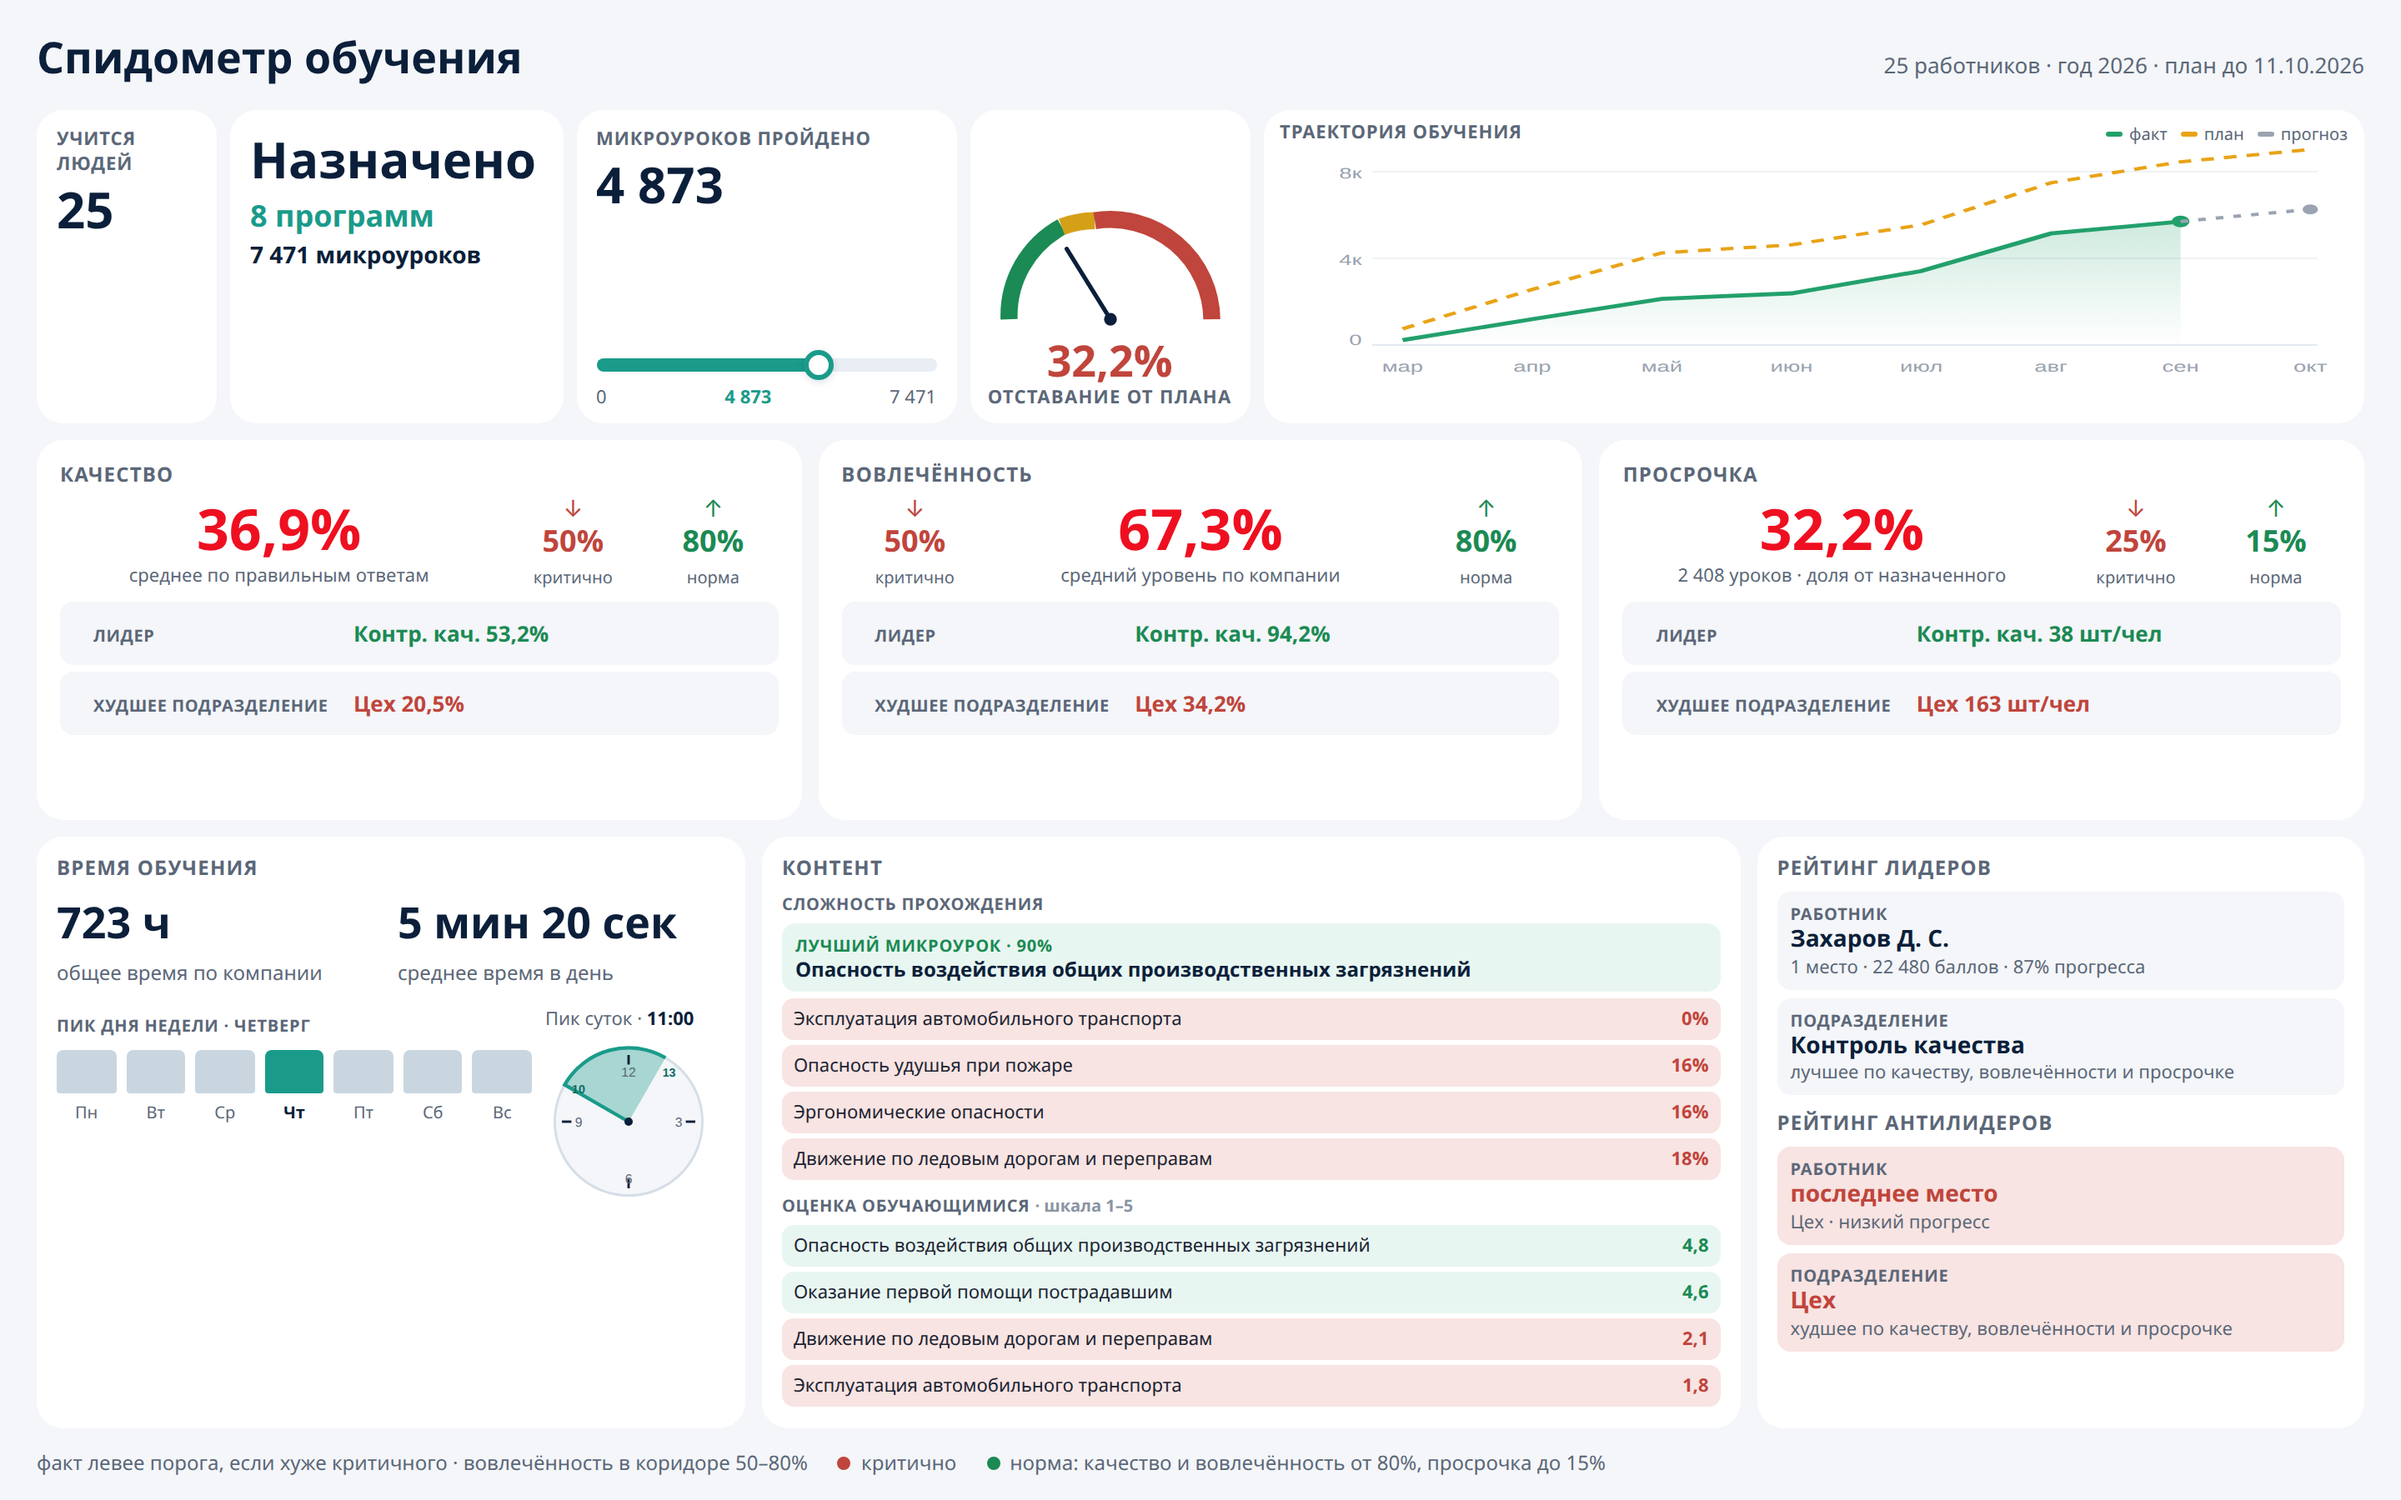
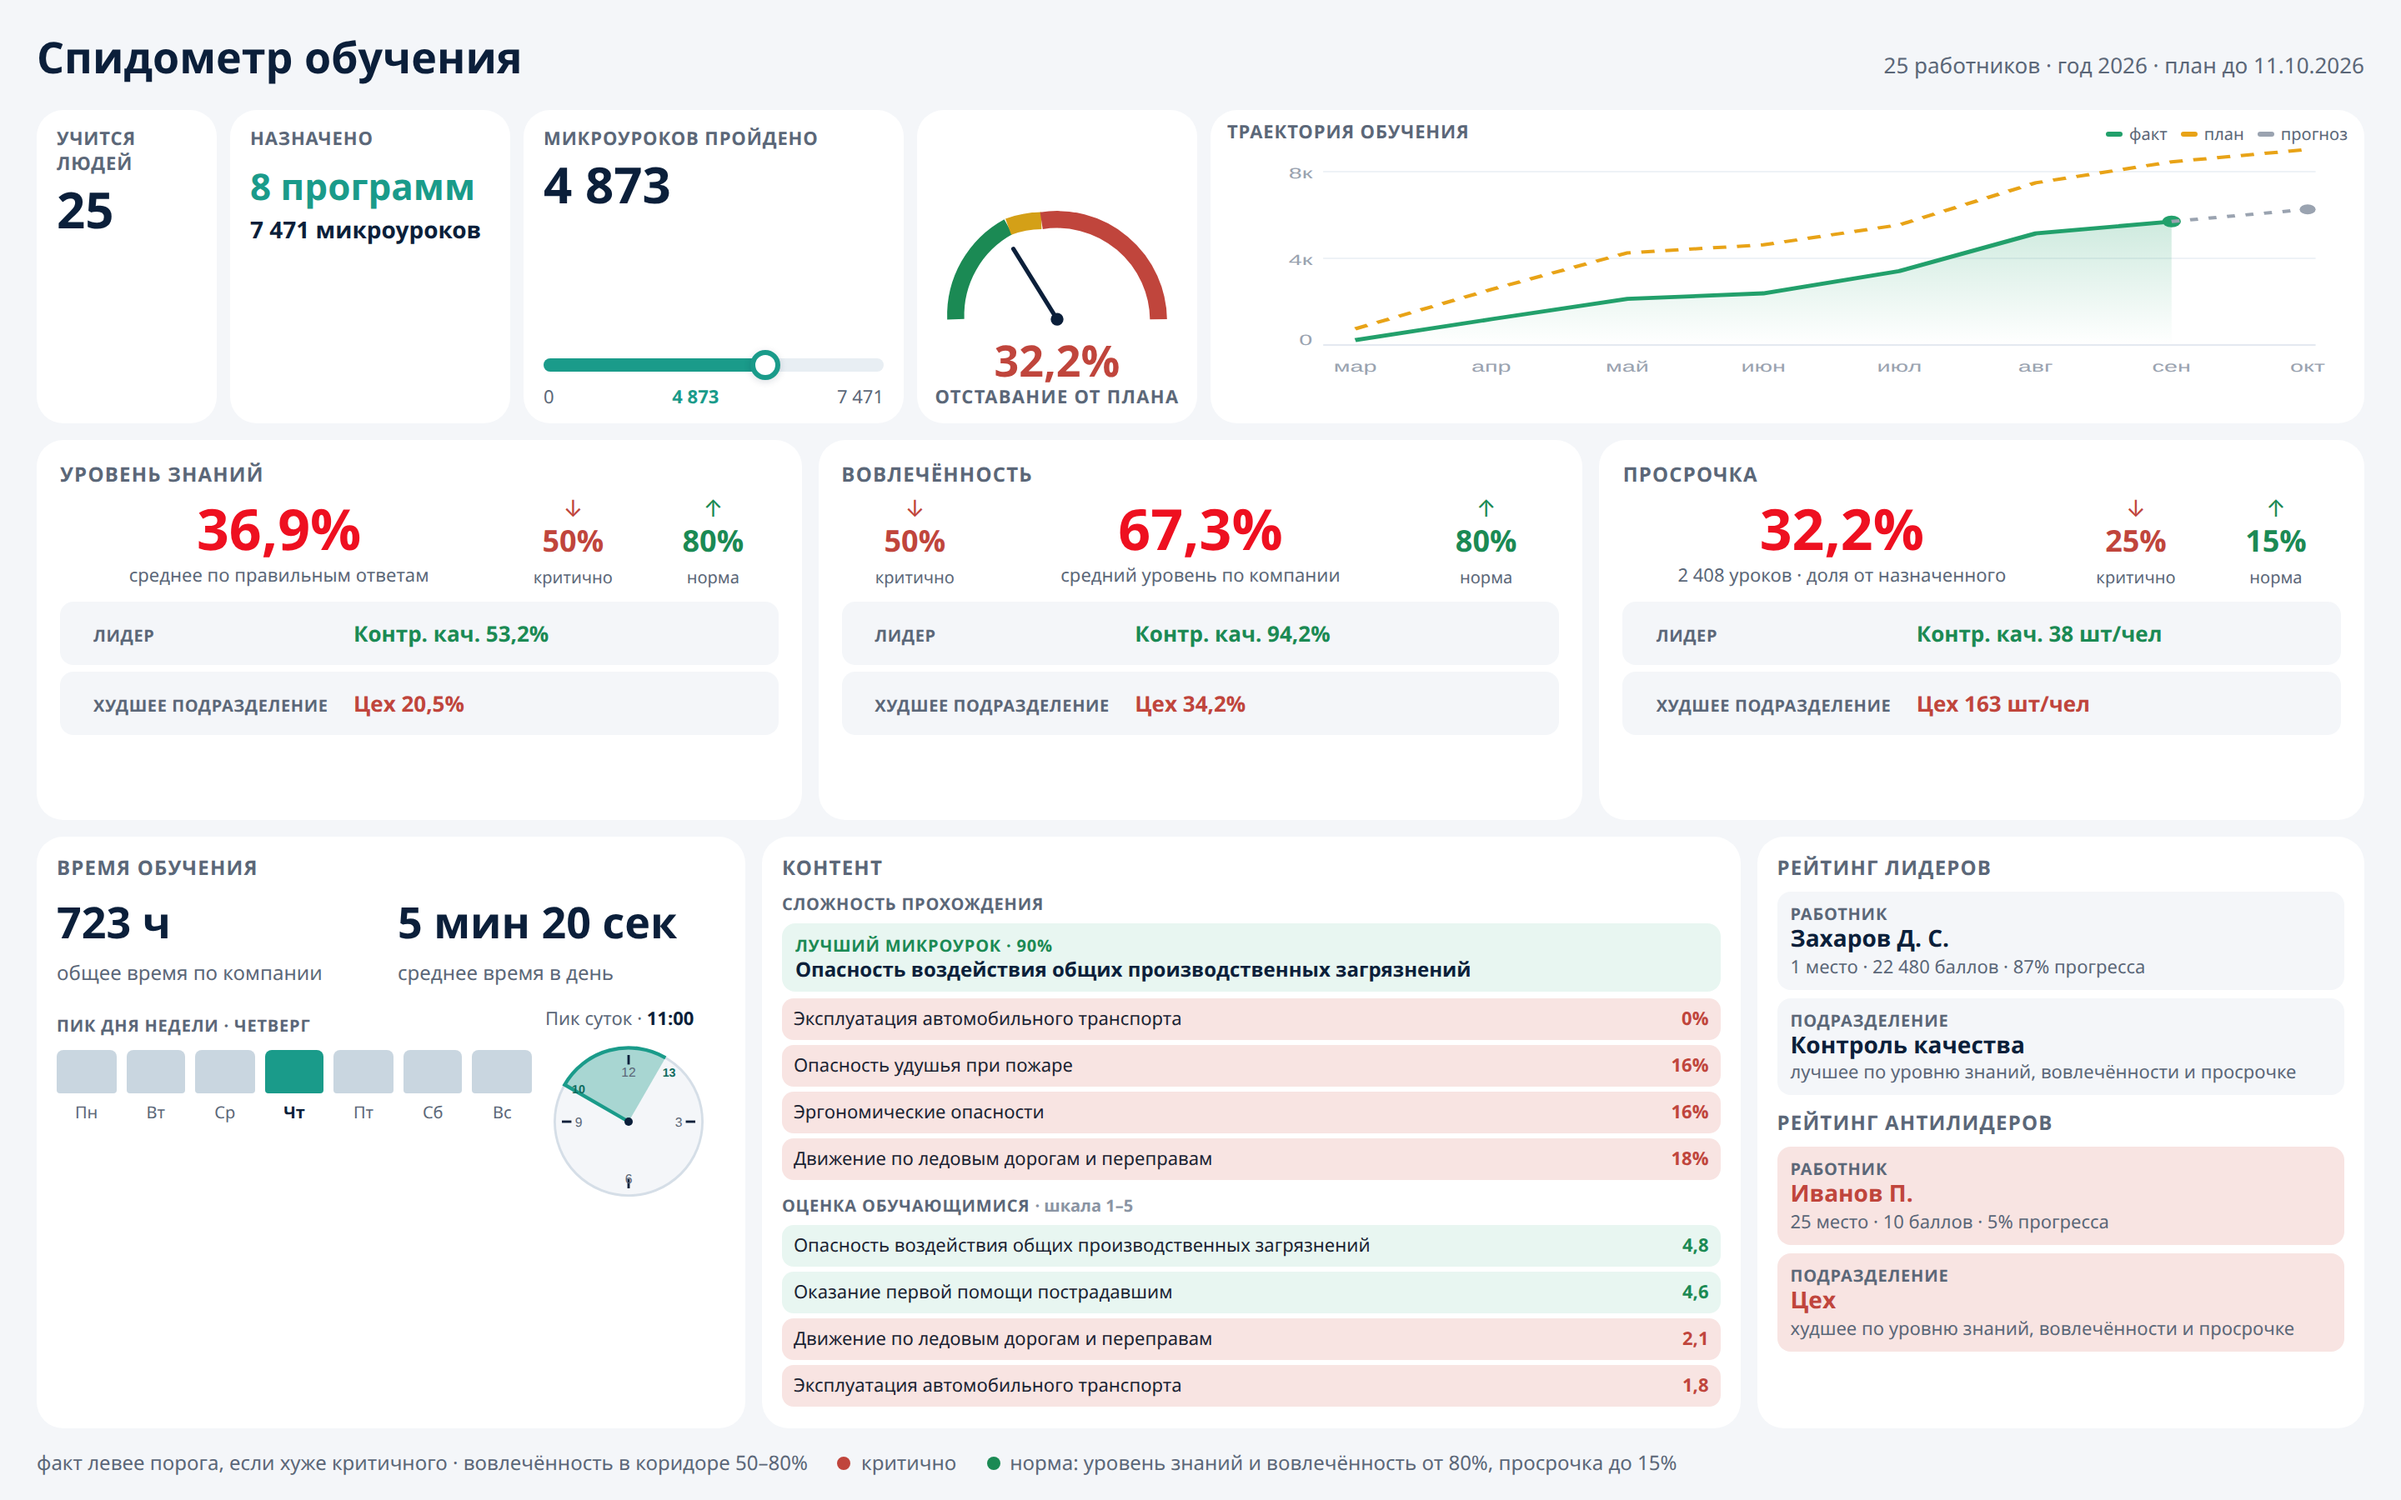
Rename quality to knowledge level, match the assigned title style, and name the anti-leader.
The assigned card now uses the same uppercase label as other blocks; the bottom-right anti-leader is Иванов П., 25th place, 10 points, 5% progress.

diff --git a/issledovaniya/vizualy/spidometr-obucheniya.html b/issledovaniya/vizualy/spidometr-obucheniya.html
@@ -47,8 +47,7 @@
     .kpi { padding: 10px 12px 8px; display: flex; flex-direction: column; }
     .kpi.tight .n { font-size: 30px; margin-top: 4px; }
     .assign { min-width: 168px; padding-right: 16px; }
-    .assign .n { font-size: 28px; margin-top: 6px; }
-    .assign-num { font-size: 18px; font-weight: 700; color: var(--teal); margin-top: 6px; }
+    .assign-num { font-size: 22px; font-weight: 700; color: var(--teal); margin-top: 6px; }
     .assign-sub { font-size: 14px; font-weight: 700; color: var(--navy); margin-top: 2px; }
     .chart-card { padding: 6px 10px 4px; display: flex; flex-direction: column; min-width: 0; }
     .chart-head { display: flex; justify-content: space-between; align-items: center; margin-bottom: 0; }
@@ -151,7 +150,7 @@
           <div class="n">25</div>
         </div>
         <div class="card kpi tight assign">
-          <div class="n">Назначено</div>
+          <div class="t">Назначено</div>
           <div class="assign-num">8 программ</div>
           <div class="assign-sub">7 471 микроуроков</div>
         </div>
@@ -224,7 +223,7 @@
 
     <div class="row3">
       <div class="card metric">
-        <h2>Качество</h2>
+        <h2>Уровень знаний</h2>
         <div class="tri left-fact">
           <div class="mid red">
             <div class="big">36,9%</div>
@@ -369,20 +368,20 @@
           <div class="box">
             <div class="l">Подразделение</div>
             <div class="n">Контроль качества</div>
-            <div class="d">лучшее по качеству, вовлечённости и просрочке</div>
+            <div class="d">лучшее по уровню знаний, вовлечённости и просрочке</div>
           </div>
         </div>
         <h2 class="anti-h">Рейтинг антилидеров</h2>
         <div class="lead">
           <div class="box anti">
             <div class="l">Работник</div>
-            <div class="n">последнее место</div>
-            <div class="d">Цех · низкий прогресс</div>
+            <div class="n">Иванов П.</div>
+            <div class="d">25 место · 10 баллов · 5% прогресса</div>
           </div>
           <div class="box anti">
             <div class="l">Подразделение</div>
             <div class="n">Цех</div>
-            <div class="d">худшее по качеству, вовлечённости и просрочке</div>
+            <div class="d">худшее по уровню знаний, вовлечённости и просрочке</div>
           </div>
         </div>
       </div>
@@ -391,7 +390,7 @@
     <div class="legend">
       <span>факт левее порога, если хуже критичного · вовлечённость в коридоре 50–80%</span>
       <span><i class="dot" style="background:#C0453C"></i>критично</span>
-      <span><i class="dot" style="background:#1B8A54"></i>норма: качество и вовлечённость от 80%, просрочка до 15%</span>
+      <span><i class="dot" style="background:#1B8A54"></i>норма: уровень знаний и вовлечённость от 80%, просрочка до 15%</span>
     </div>
   </div>
 </body>
